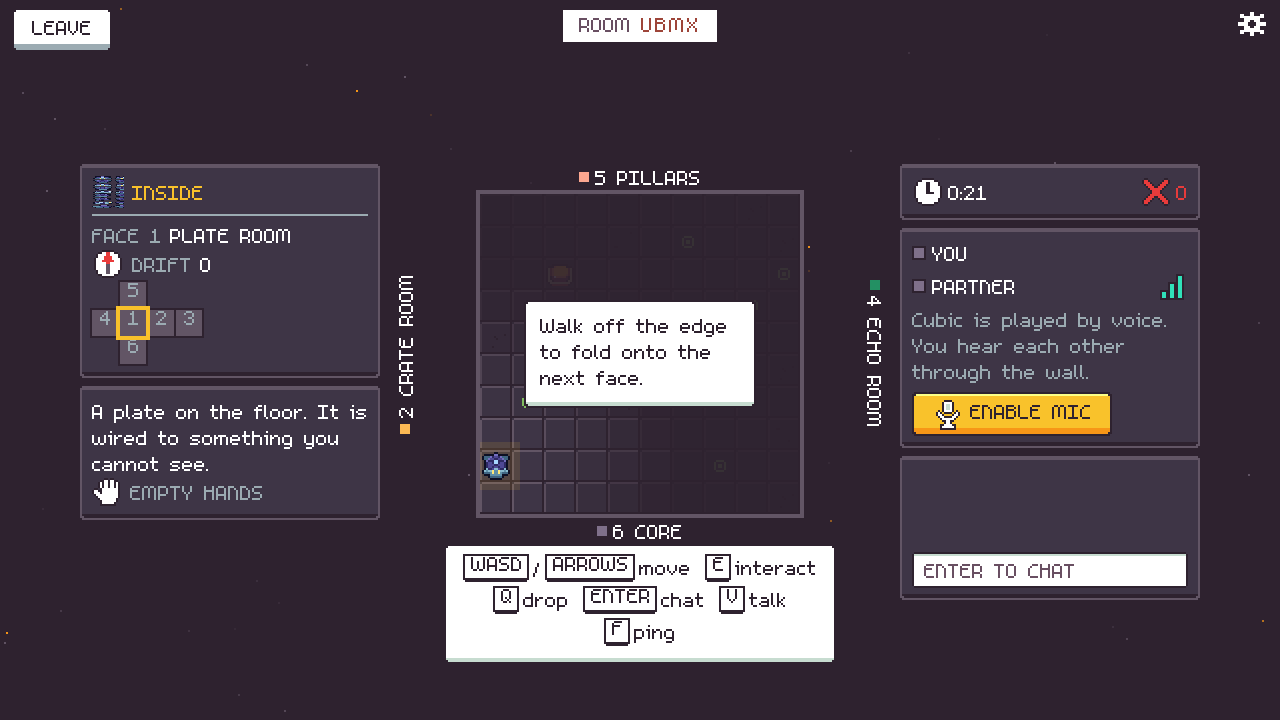
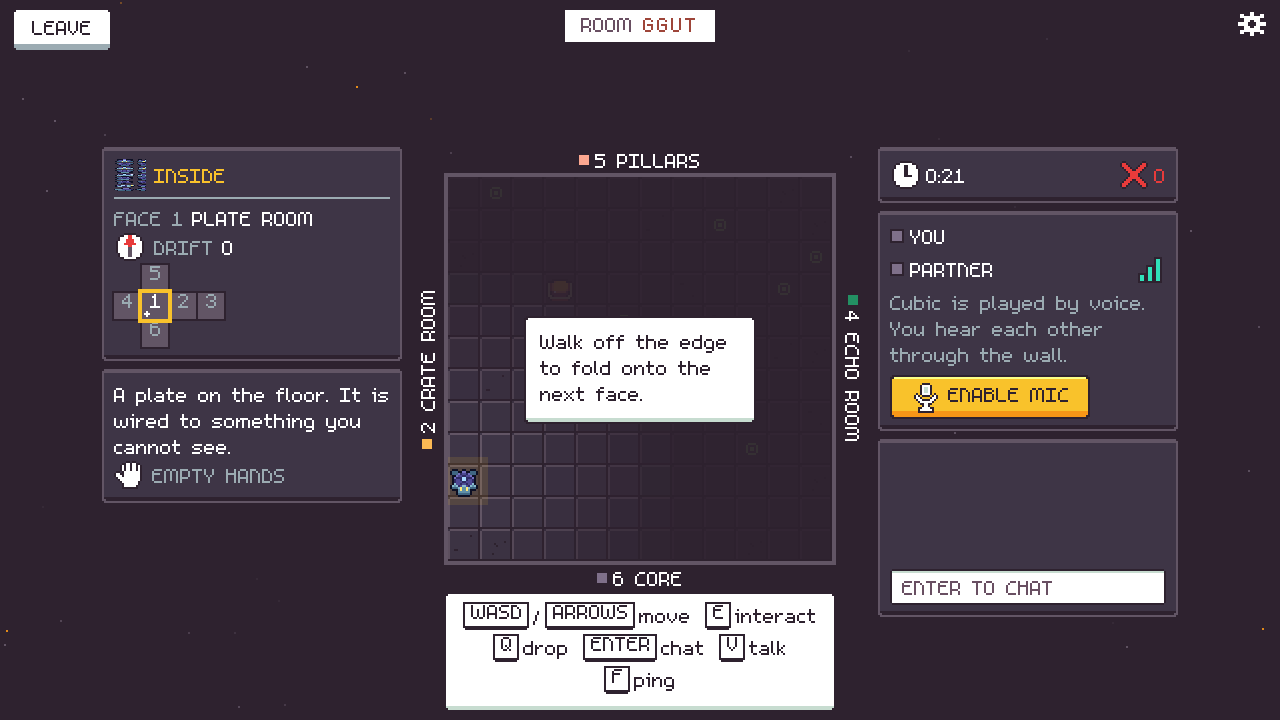
After the keyboard merge: narrator through the shared captions, Hints row
- the narrator's lines go to ui/captions.ts (the onboarding layer no longer has its own caption)
- the Hints toggle is one more row in the data-driven settings panel
- screenshots retaken at 12x12

diff --git a/client/test/onboarding.test.ts b/client/test/onboarding.test.ts
@@ -270,5 +270,5 @@ test('onboarding: the rules stay pure and the layer is mounted once, with a repo
   assert.match(rules, /FACE_SIZE - 1/, 'the face edge comes from FACE_SIZE');
   assert.equal(src('app.ts').match(/mountOnboarding\(/g)?.length, 1);
   assert.match(src('ui/onboarding/anchors.ts'), /cube: '\.cu-net'/);
-  assert.match(src('ui/settingsPanel.ts'), /toggle\('hints', 'Hints'\)/);
+  assert.match(src('ui/settingsPanel.ts'), /kind: 'toggle', key: 'hints', label: 'Hints'/);
 });
